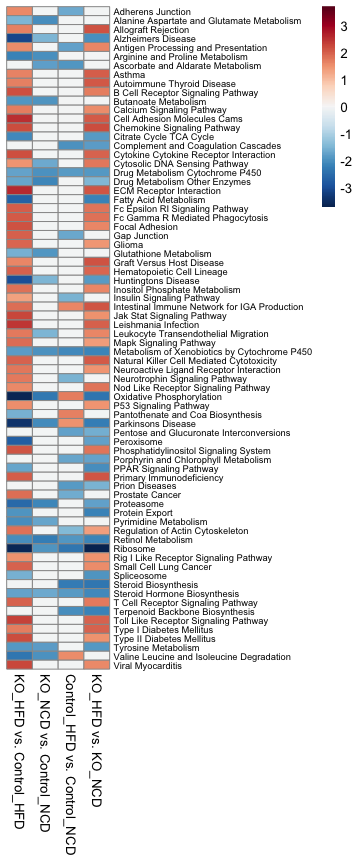
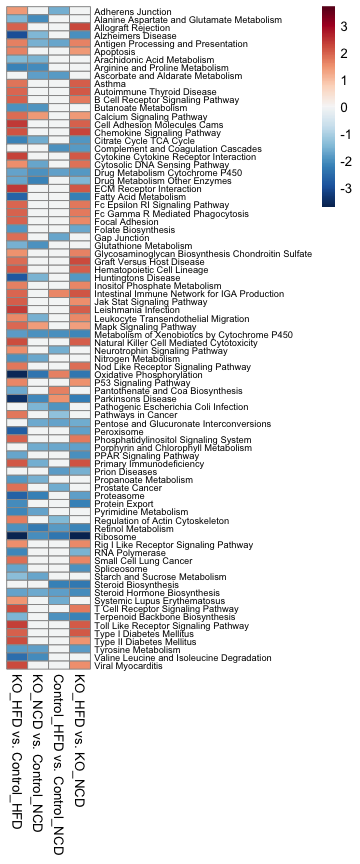
update vignettes

diff --git a/vignettes/Liver.md b/vignettes/Liver.md
@@ -1,6 +1,6 @@
 DESeq analysis of mouse liver samples
 ================
-February 17, 2021
+August 24, 2021
 
 This guide follows the [Bioconductor RNA-Seq
 workflow](http://master.bioconductor.org/packages/release/workflows/vignettes/rnaseqGene/inst/doc/rnaseqGene.html)
@@ -8,7 +8,7 @@ to find differentially expressed genes in
 [GSE132056](https://www.ncbi.nlm.nih.gov/geo/query/acc.cgi?acc=GSE132056)
 using
 [DESeq2](http://www.bioconductor.org/packages/release/bioc/html/DESeq2.html)
-version 1.30.0. For more details about the statistics, check the
+version 1.30.1. For more details about the statistics, check the
 original
 [paper](https://genomebiology.biomedcentral.com/articles/10.1186/s13059-014-0550-8)
 or online tutorials like the one from
@@ -91,18 +91,18 @@ inner_join( dplyr::select(mouse92, 1:4,8),
  arrange(desc(mean_count))
 #  Joining, by = "id"
 #  # A tibble: 19,773 x 6
-#     id                 gene_name biotype        chromosome description                              mean_count
-#     <chr>              <chr>     <chr>          <chr>      <chr>                                         <dbl>
-#   1 ENSMUSG00000029368 Alb       protein_coding 5          Serum albumin                              1179072.
-#   2 ENSMUSG00000064339 mt-Rnr2   Mt_rRNA        MT         mitochondrially encoded 16S rRNA            445705.
-#   3 ENSMUSG00000020609 Apob      protein_coding 12         Apolipoprotein B-100 Apolipoprotein B-48    363466.
-#   4 ENSMUSG00000002985 Apoe      protein_coding 7          Apolipoprotein E                            277628.
-#   5 ENSMUSG00000058207 Serpina3k protein_coding 12         serine (or cysteine) peptidase inhibitor    198378.
-#   6 ENSMUSG00000064351 mt-Co1    protein_coding MT         mitochondrially encoded cytochrome c oxi    194757.
-#   7 ENSMUSG00000037071 Scd1      protein_coding 19         stearoyl-Coenzyme A desaturase 1            145974.
-#   8 ENSMUSG00000066154 Mup3      protein_coding 4          major urinary protein 3                     129677.
-#   9 ENSMUSG00000024164 C3        protein_coding 17         Complement C3 Complement C3 beta chain C    121210.
-#  10 ENSMUSG00000025479 Cyp2e1    protein_coding 7          Cytochrome P450 2E1                         114009.
+#     id                 gene_name biotype        chromosome description                               mean_count
+#     <chr>              <chr>     <chr>          <chr>      <chr>                                          <dbl>
+#   1 ENSMUSG00000029368 Alb       protein_coding 5          "Serum albumin"                             1179072.
+#   2 ENSMUSG00000064339 mt-Rnr2   Mt_rRNA        MT         "mitochondrially encoded 16S rRNA"           445705.
+#   3 ENSMUSG00000020609 Apob      protein_coding 12         "Apolipoprotein B-100 Apolipoprotein B-4…    363466.
+#   4 ENSMUSG00000002985 Apoe      protein_coding 7          "Apolipoprotein E"                           277628.
+#   5 ENSMUSG00000058207 Serpina3k protein_coding 12         "serine (or cysteine) peptidase inhibito…    198378.
+#   6 ENSMUSG00000064351 mt-Co1    protein_coding MT         "mitochondrially encoded cytochrome c ox…    194757.
+#   7 ENSMUSG00000037071 Scd1      protein_coding 19         "stearoyl-Coenzyme A desaturase 1"           145974.
+#   8 ENSMUSG00000066154 Mup3      protein_coding 4          ""                                           129677.
+#   9 ENSMUSG00000024164 C3        protein_coding 17         "Complement C3 Complement C3 beta chain …    121210.
+#  10 ENSMUSG00000025479 Cyp2e1    protein_coding 7          "Cytochrome P450 2E1"                        114009.
 #  # … with 19,763 more rows
 ```
 
@@ -126,12 +126,13 @@ there are a few ways to model the data.
 ## Model 1, combine factors
 
 Combine treatment and diet into a new column and order the factor
-levels.
+levels. NOTE: Starting in hciR version 1.5, control groups should be
+listed first and pairwise combinations are selected in reverse order.
 
 ``` r
 samples <- mutate(samples, trt_diet = gsub("Degs1_", "", paste(trt, diet, sep="_")))
 samples$trt_diet <- factor(samples$trt_diet,
-     levels = c("KO_HFD",  "KO_NCD", "Control_HFD", "Control_NCD"))
+     levels = c("Control_NCD", "Control_HFD", "KO_NCD", "KO_HFD"))
 ```
 
 Run DESeq using the new trt\_diet column in the design formula and get
@@ -264,12 +265,12 @@ dplyr::select(p1, 1:7,12)
 #   7 ENSMUSG0… Cpt1c     protein_… 7          Mus musculus carnitine palmitoyltr… CPT1C             5.15 NA     
 #   8 ENSMUSG0… Ubc       protein_… 5          ubiquitin C                         UBC             871.    0.498 
 #   9 ENSMUSG0… Acaa1b    protein_… 9          acetyl-Coenzyme A acyltransferase … ACAA1         11724.    0.914 
-#  10 ENSMUSG0… Lpl       protein_… 8          lipoprotein lipase                  LPL             640.    0.0285
+#  10 ENSMUSG0… Lpl       protein_… 8          lipoprotein lipase                  LPL             640.    0.0284
 #  # … with 60 more rows
 ```
 
 Cluster the PPAR genes in a heatmap. There are 70 expressed genes but
-only 3 are significant - this will plot 37 genes with an FDR \< 50%.
+only 3 are significant - this will plot 37 genes with an FDR &lt; 50%.
 
 ``` r
 x <- top_counts( filter(p1, padj < 0.5), rld1, filter=FALSE)
@@ -376,10 +377,10 @@ and run `fgsea` using a 10% FDR.
 ``` r
 set.seed(77)
 k1 <- fgsea_all(res, msig_pathways$KEGG)
-#  1. KO_HFD vs. Control_HFD:       112 enriched sets (68 positive, 44 negative)
-#  2. KO_NCD vs. Control_NCD:       25 enriched sets (0 positive, 25 negative)
-#  3. Control_HFD vs. Control_NCD:  29 enriched sets (5 positive, 24 negative)
-#  4. KO_HFD vs. KO_NCD:            64 enriched sets (38 positive, 26 negative)
+#  1. KO_HFD vs. Control_HFD:       114 enriched sets (68 positive, 46 negative)
+#  2. KO_NCD vs. Control_NCD:       38 enriched sets (3 positive, 35 negative)
+#  3. Control_HFD vs. Control_NCD:  28 enriched sets (4 positive, 24 negative)
+#  4. KO_HFD vs. KO_NCD:            65 enriched sets (36 positive, 29 negative)
 ```
 
 Print the top pathways from KO\_HFD vs. KO\_NCD and check the GSEA [user
@@ -391,14 +392,14 @@ group_by(k1[[1]][, -8], enriched) %>% top_n(4, abs(NES)) %>% ungroup()
 #  # A tibble: 8 x 8
 #    pathway                                  pval    padj     ES   NES nMoreExtreme  size enriched
 #    <chr>                                   <dbl>   <dbl>  <dbl> <dbl>        <dbl> <int> <chr>   
-#  1 Oxidative Phosphorylation            0.000260 0.00118 -0.777 -3.65            0   102 negative
-#  2 Ribosome                             0.000254 0.00118 -0.802 -3.62            0    83 negative
-#  3 Parkinsons Disease                   0.000259 0.00118 -0.734 -3.43            0    99 negative
-#  4 Alzheimers Disease                   0.000272 0.00120 -0.637 -3.13            0   133 negative
-#  5 ECM Receptor Interaction             0.000171 0.00117  0.652  2.58            0    58 positive
-#  6 Cell Adhesion Molecules Cams         0.000168 0.00117  0.609  2.53            0    74 positive
-#  7 Leishmania Infection                 0.000171 0.00117  0.628  2.43            0    52 positive
-#  8 Toll Like Receptor Signaling Pathway 0.000169 0.00117  0.565  2.33            0    71 positive
+#  1 Ribosome                             0.000353 0.00168 -0.830 -3.68            0    83 negative
+#  2 Oxidative Phosphorylation            0.000387 0.00171 -0.779 -3.60            0   107 negative
+#  3 Parkinsons Disease                   0.000381 0.00171 -0.748 -3.45            0   104 negative
+#  4 Alzheimers Disease                   0.000458 0.00189 -0.618 -3.01            0   149 negative
+#  5 Cell Adhesion Molecules Cams         0.000135 0.00126  0.594  2.40            0   106 positive
+#  6 ECM Receptor Interaction             0.000140 0.00126  0.620  2.40            0    78 positive
+#  7 Leishmania Infection                 0.000145 0.00126  0.642  2.38            0    60 positive
+#  8 Toll Like Receptor Signaling Pathway 0.000139 0.00126  0.603  2.36            0    84 positive
 ```
 
 Get the fold change vector and create an enrichment plot for Ribosome.
@@ -407,8 +408,8 @@ Get the fold change vector and create an enrichment plot for Ribosome.
 library(fgsea)
 fc <- write_gsea_rnk(res, write=FALSE)
 head(fc[[1]])
-#    COL1A1   PHLDA3    GPNMB     GBP6    GDF15   COL1A2 
-#  2.024805 1.840050 1.437978 1.422271 1.347245 1.346401
+#    COL1A1   PHLDA3    GPNMB     GBP6     CD8A    GDF15 
+#  2.024805 1.840050 1.437978 1.422271 1.381950 1.347245
 plotEnrichment(msig_pathways$KEGG[["Ribosome"]],  fc[[1]]) +
 ggplot2::labs(title="Ribosome")
 ```
@@ -428,7 +429,7 @@ Plot NES scores from significant pathways in two or more contrasts.
 
 ``` r
 plot_fgsea(k1, fontsize_row=7, sets =2)
-#  74 total sets
+#  82 total sets
 ```
 
 ![](Liver_files/figure-gfm/plotfgsea-1.png)<!-- -->

diff --git a/README.md b/README.md
@@ -6,6 +6,9 @@ package includes functions to run [DESeq2] using sample and count tibbles as
 input, get annotated DESeq results for all pairwise comparisons and create
 interactive plots and other visualizations.
 
+NOTE: Starting in hciR version 1.5, the control group should be listed first
+and then pairswise comparisons are selected in reverse order, so A, B, C levels
+will return results for C vs. B, C vs. A, and B vs. A from `results_all`.
 
 Use `devtools` to install `hciR` and the [hciRdata] package
 with Ensembl annotations.
